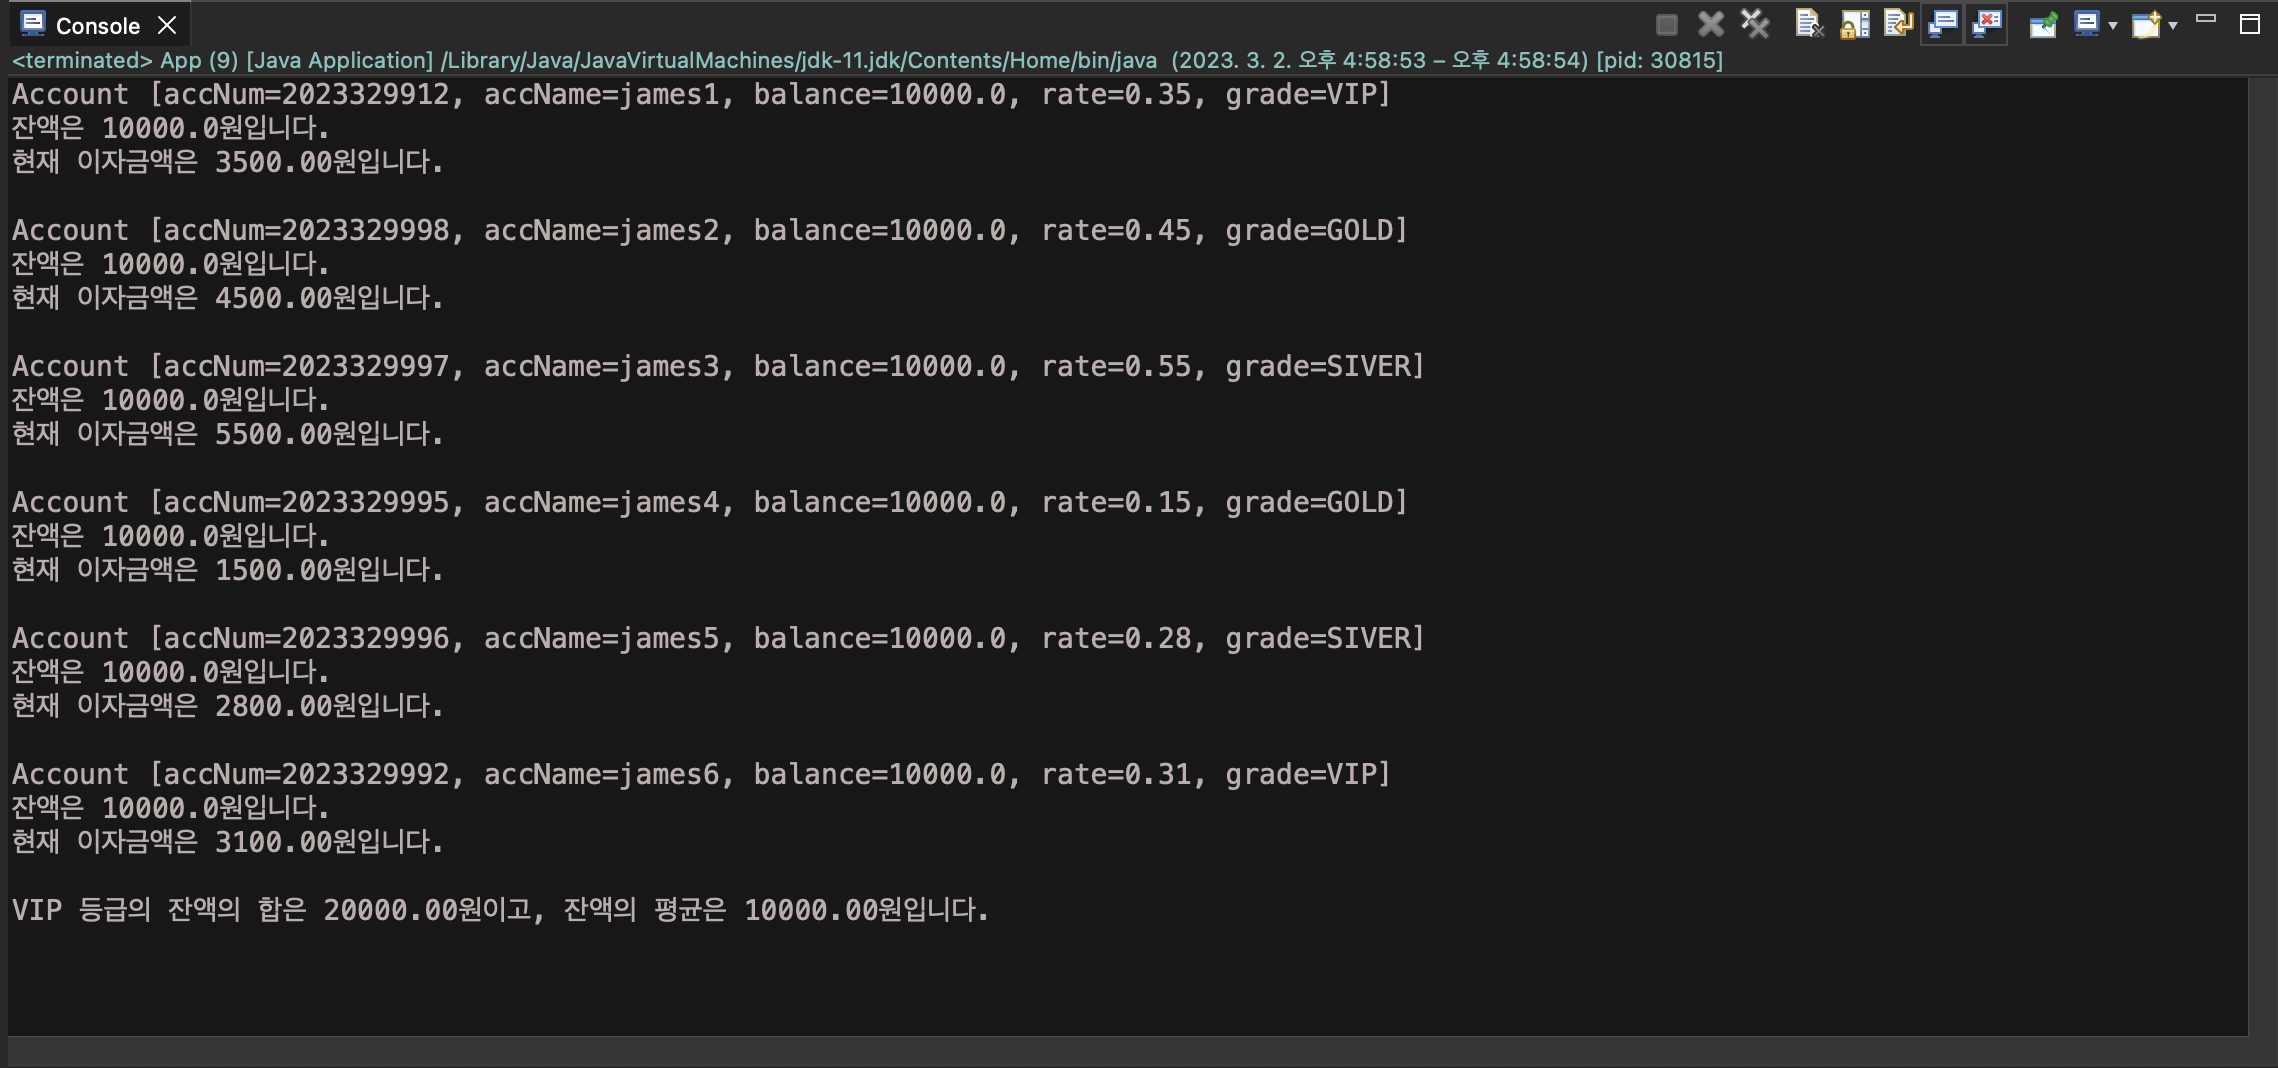
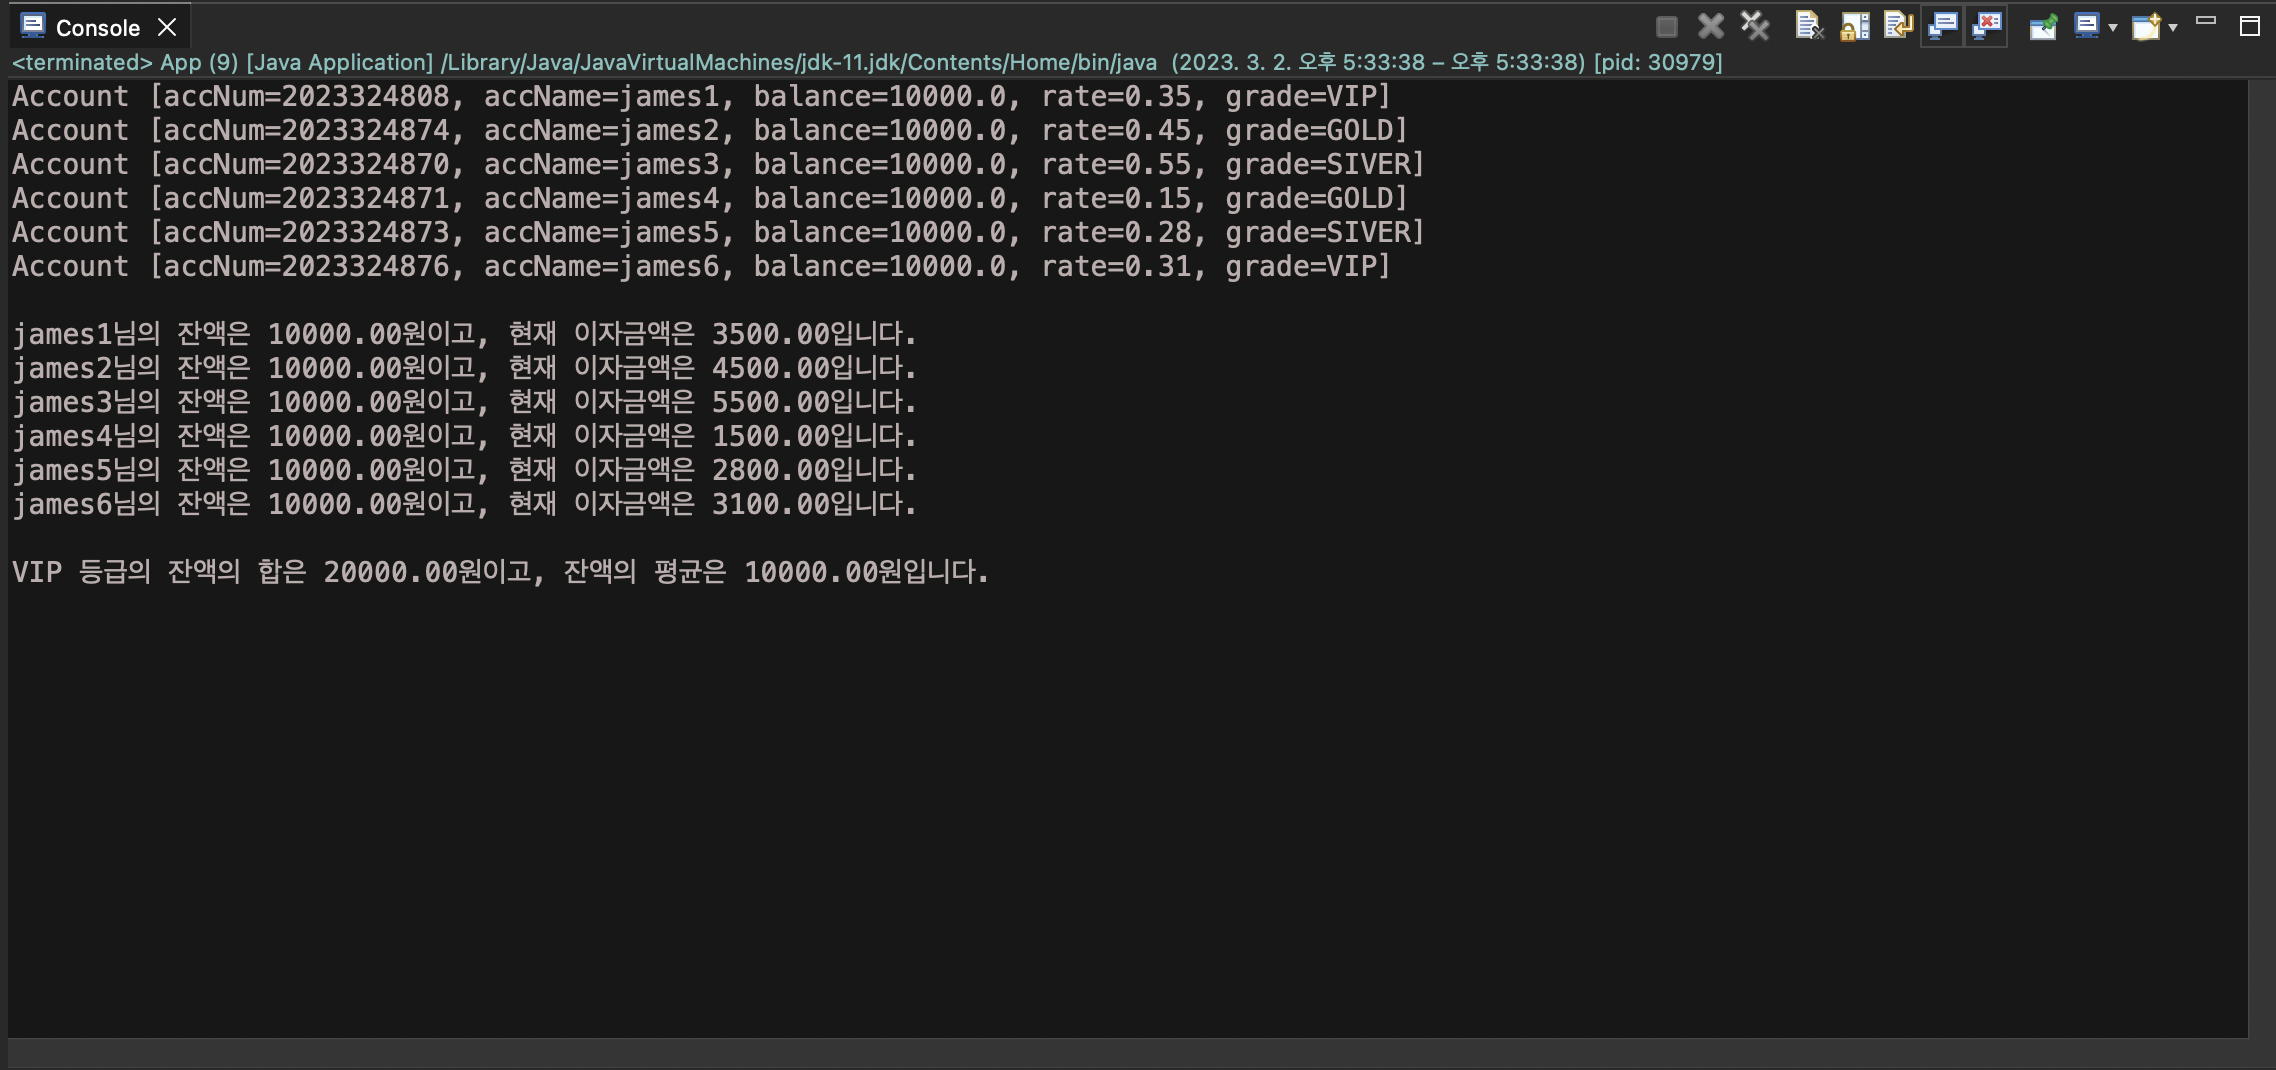
출력형태 수

diff --git a/assignment/src/ws0302/App.java b/assignment/src/ws0302/App.java
@@ -17,14 +17,18 @@ public class App {
 		
 		for (Account a:acc) {
 			System.out.println(a);
-			System.out.println("잔액은 " + a.getBalance() + "원입니다.");
-			System.out.printf("현재 이자금액은 %4.2f원입니다. \n\n", a.getInterest());
+		}
+		System.out.println("");
+		
+		for (Account a:acc) {
+			System.out.printf("%s님의 잔액은 %4.2f원이고, 현재 이자금액은 %4.2f입니다. \n", a.getAccName(), a.getBalance(), a.getInterest());
 			if(a.getGrade().equals("VIP")) {
 				sum += a.getBalance();
 				cnt++;
 			}
 		}
 		avg = sum / cnt;
+		System.out.println("");
 		System.out.printf("VIP 등급의 잔액의 합은 %4.2f원이고, 잔액의 평균은 %4.2f원입니다.", sum, avg);
 
 	}

diff --git a/assignment/src/ws0302/Account.java b/assignment/src/ws0302/Account.java
@@ -27,10 +27,13 @@ public class Account {
 		this.grade = grade;
 	}
 
+	public String getAccName() {
+		return accName;
+	}
+
 	public double getBalance() {
 		return balance;
 	}
-	
 
 	public String getGrade() {
 		return grade;
